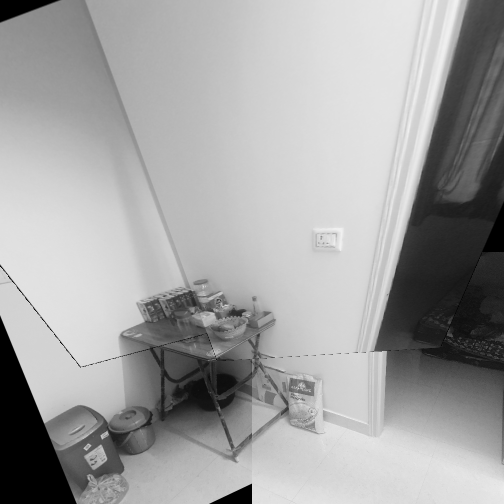
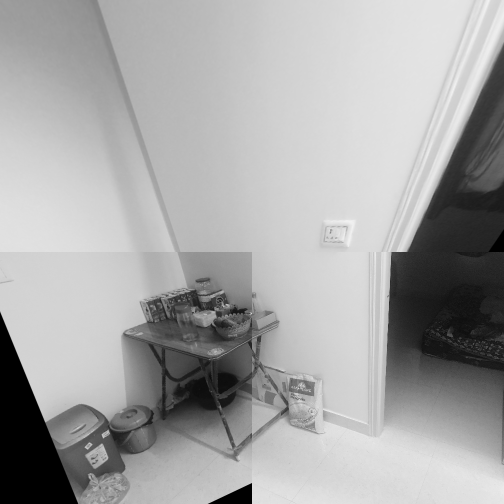
just backing up

diff --git a/image_stitching/stepwise_stitching/core.py b/image_stitching/stepwise_stitching/core.py
@@ -15,13 +15,13 @@ def FLANN_matcher(src_kp, dest_kp, src_desc, dest_desc):
     @brief: match descriptor vectors with a FLANN based matcher
     @args[in]:
         src_kp: keypoints from source image
-        dest_kp: keyppoints from destination image 
+        dest_kp: keyppoints from destination image
         src_desc: descriptor from source image
         dest_desc: descriptor from destination image
-    @args[out]: 
+    @args[out]:
         good_mathes: matches with descriptor distance below Lowe's ration
-        best_match: keypoints in soure  and destination image corresponding to 
-                    best matches descriptor  
+        best_match: keypoints in soure  and destination image corresponding to
+                    best matches descriptor
     '''
     # match descriptor vectors
     flann = cv2.FlannBasedMatcher(params.FLANN_INDEX_PARAMS,
@@ -86,7 +86,7 @@ def matches_visualization(src_image, dest_image, src_kp, dest_kp, good_matches,
 
 def get_homography_matrix(src_image, dest_image, task_name):
     '''
-    @brief: find homography matrix and keypoint in source and destination image 
+    @brief: find homography matrix and keypoint in source and destination image
             for best match
     @args[in]:
         src_image: source image
@@ -127,50 +127,37 @@ def get_homography_matrix(src_image, dest_image, task_name):
     return (h_mat, best_match)
 
 
-def find_homography(images, task_name):
+def warp(src_image, dest_image,  H, src_bm_kp, dest_bm_kp, direction, dest_overlay=True):
     '''
     @brief:
     @args[in]:
     @args[out]:
     '''
-    homography = []
-    for i in range(len(images)):
-        for j in range(i+1, len(images)):
-            h_mat, bm = get_homography_matrix(images[i], images[j], task_name)
-            if h_mat is not None:
-                homography.append([i, j, h_mat, bm])
-    if len(homography) == 0:
-        return None
-    return homography
-
-
-def warp(src_image, dest_image,  H, src_bm_kp, dest_bm_kp, direction='hor', dest_overlay=True):
     # find the coordinate of best match keypoint from source image in the warped source image
     warped_src_bm_kp_t = np.dot(H, (src_bm_kp + (1,)))
     warped_src_bm_kp = [x/warped_src_bm_kp_t[2] for x in warped_src_bm_kp_t]
     # calculate offset based on the warping direction
     if direction == 'r2l':
         stitched_frame_size = (2 * src_image.shape[1], src_image.shape[0])
-        x_offset = dest_bm_kp[0] - warped_src_bm_kp[0]
-        y_offset = dest_bm_kp[1] - warped_src_bm_kp[1]
+        x_offset = dest_bm_kp[1] - warped_src_bm_kp[1]
+        y_offset = dest_bm_kp[0] - warped_src_bm_kp[0]
     elif direction == 'l2r':
         stitched_frame_size = (2*src_image.shape[1], src_image.shape[0])
-        x_offset = dest_bm_kp[0]+src_image.shape[0] - warped_src_bm_kp[0]
-        y_offset = dest_bm_kp[1] - warped_src_bm_kp[1]
+        x_offset = dest_bm_kp[1] + src_image.shape[1] - warped_src_bm_kp[1]
+        y_offset = dest_bm_kp[0] - warped_src_bm_kp[0]
     elif direction == 't2b':
         stitched_frame_size = (src_image.shape[1], 2*src_image.shape[0])
-        x_offset = dest_bm_kp[0] - warped_src_bm_kp[0]
-        y_offset = dest_bm_kp[1]+src_image.shape[1] - warped_src_bm_kp[1]
+        x_offset = dest_bm_kp[1] - warped_src_bm_kp[1]
+        y_offset = dest_bm_kp[0] + src_image.shape[0] - warped_src_bm_kp[0]
     # caculate new homography matrix with offset compensation
     T = np.array([[1, 0, x_offset],
                   [0, 1, y_offset],
                   [0, 0, 1]])
-    print(T)
-    print(H)
+    # print(T)
+    # print(H)
     H = np.dot(T, H)
-    print(H)
+    # print(H)
     # warp the source image
-    print(dest_image.shape, stitched_frame_size)
     stitched = cv2.warpPerspective(src_image, H, stitched_frame_size)
     # overlay destination image on warped output
     if dest_overlay:
@@ -179,13 +166,14 @@ def warp(src_image, dest_image,  H, src_bm_kp, dest_bm_kp, direction='hor', dest
         elif direction == 'l2r':
             stitched[0:dest_image.shape[0], dest_image.shape[1]:] = dest_image
         if direction == 't2b':
-            # stitched[dest_image.shape[0]:, 0:dest_image.shape[1]] = dest_image
-            for i in range(dest_image.shape[0], dest_image.shape[0]*2):
-                for j in range(dest_image.shape[1]):
-                    if stitched[i, j] == 0:
-                        stitched[i, j] = dest_image[i - dest_image.shape[0], j]
+            stitched[dest_image.shape[0]:, 0:dest_image.shape[1]] = dest_image
+            # for i in range(dest_image.shape[0], dest_image.shape[0]*2):
+            #     for j in range(dest_image.shape[1]):
+            #         if stitched[i, j] == 0:
+            #             stitched[i, j] = dest_image[i - dest_image.shape[0], j]
     # resize the final stitiched image and show
     stitched = cv2.resize(stitched, (504, 504))
+    print(stitched.shape)
     if params.TEST_BOOL:
         cv2.imshow('stitched', stitched)
         cv2.moveWindow('stitched', 100, 50)

diff --git a/image_stitching/stepwise_stitching/main.py b/image_stitching/stepwise_stitching/main.py
@@ -17,55 +17,38 @@ import core
 def main():
     # read images
     images = utils.read_images()
-    # l2r
-    # src_image = images[2][1]
-    # dest_image = images[3][1]
 
-    src_image = images[0][1]
-    dest_image = images[1][1]
-
-    # r2l
-    # src_image = images[3][1]
-    # dest_image = images[2][1]
-
-    # t2b
-    # src_image = images[0][1]
-    # dest_image = images[2][1]
-    # src_image = images[1][1]
-    # dest_image = images[0][1]
-    images_stitch = [src_image, dest_image]
+    src_image = images[0]
+    dest_image = images[1]
 
     # feature finding and image matching
-    h_mat = core.find_homography(images_stitch, 'image01')
+    h_mat, bm = core.get_homography_matrix(src_image, dest_image, 'image01')
     # stitch image
     if h_mat is not None:
-        # core.stitch(images_stitch, h_mat[0][2], h_mat[0][3])
-        image01 = core.warp(src_image, dest_image,  h_mat[0][2],
-                            h_mat[0][3][0], h_mat[0][3][1], direction='l2r')
+        image01 = core.warp(src_image, dest_image, h_mat,
+                            bm[0], bm[1], direction='l2r')
         cv2.imwrite('output/image01.png', image01)
-    src_image = images[2][1]
-    dest_image = images[3][1]
-    images_stitch = [src_image, dest_image]
+
+    src_image = images[2]
+    dest_image = images[3]
     # feature finding and image matching
-    h_mat = core.find_homography(images_stitch, 'image23')
+    h_mat, bm = core.get_homography_matrix(src_image, dest_image, 'image23')
     # stitch image
     if h_mat is not None:
         # core.stitch(images_stitch, h_mat[0][2], h_mat[0][3])
-        image23 = core.warp(src_image, dest_image,  h_mat[0][2],
-                            h_mat[0][3][0], h_mat[0][3][1], direction='l2r')
+        image23 = core.warp(src_image, dest_image, h_mat,
+                            bm[0], bm[1], direction='l2r')
         cv2.imwrite('output/image23.png', image23)
+
     src_image = image01
     dest_image = image23
-    images_stitch = [src_image, dest_image]
     # feature finding and image matching
-    h_mat = core.find_homography(images_stitch, 'image01_23')
+    h_mat, bm = core.get_homography_matrix(src_image, dest_image, 'image01_23')
     # stitch image
     if h_mat is not None:
-        # core.stitch(images_stitch, h_mat[0][2], h_mat[0][3])
-        image01_02 = core.warp(src_image, dest_image,  h_mat[0][2],
-                               h_mat[0][3][0], h_mat[0][3][1],
-                               direction='t2b', dest_overlay=True)
-        cv2.imwrite('output/image01_23.png', image01_02)
+        image01_23 = core.warp(src_image, dest_image, h_mat,
+                               bm[0], bm[1], direction='t2b')
+        cv2.imwrite('output/image01_23.png', image01_23)
 
 
 if __name__ == '__main__':

diff --git a/image_stitching/stepwise_stitching/utilities.py b/image_stitching/stepwise_stitching/utilities.py
@@ -18,15 +18,13 @@ def read_images(dir_name='data'):
     images = []
     image_names = os.listdir(dir_name)
     image_names.sort()
-    for cam_num, image_name in enumerate(image_names):
+    for image_name in image_names:
         print(image_name, 'loaded')
         image = cv2.imread(os.path.join(dir_name, image_name), 0)
         width = image.shape[1]//params.DOWN_FACTOR
         height = image.shape[0]//params.DOWN_FACTOR
         image = cv2.resize(image, (width, height))
-        row = cam_num//params.VIEW_ROWS
-        col = cam_num % params.VIEW_COLS
-        images.append([(row, col), image])
+        images.append(image)
         if params.TEST_BOOL:
             cv2.imshow(image_name, image)
             cv2.moveWindow(image_name, 100, 50)
